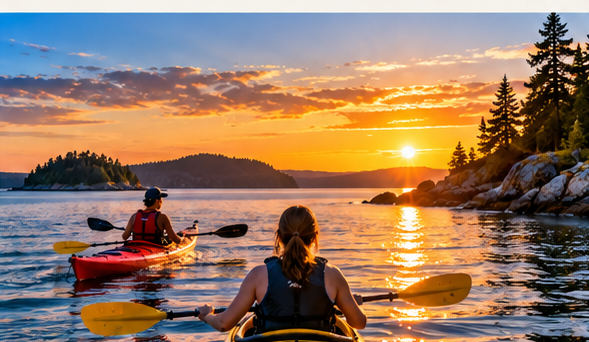
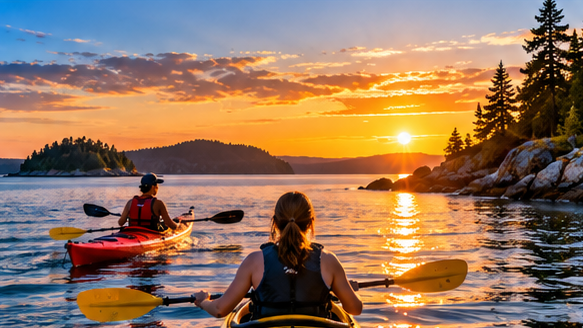
attractions page + image adjustments

diff --git a/website_files/attractions.html b/website_files/attractions.html
@@ -1,0 +1,313 @@
+<!DOCTYPE html>
+<html lang="en">
+<head>
+    <meta charset="UTF-8">
+    <meta name="viewport" content="width=device-width, initial-scale=1.0">
+
+    <title>Moffat Bay Lodge | Attractions</title>
+
+    <link rel="stylesheet" href="/styles.css">
+
+    <style>
+        /* Main page layout */
+        .page-layout {
+            max-width: none;
+            padding: 0 1.5rem 2rem 0;
+            gap: 2rem;
+            grid-template-columns: minmax(0, 1fr) var(--sidebar-w);
+        }
+
+        .page-main {
+            min-width: 0;
+            width: 100%;
+        }
+
+        /* Page heading */
+        .attractions-heading {
+            text-align: center;
+            font-size: clamp(1.8rem, 3vw, 2.5rem);
+            font-weight: normal;
+            line-height: 1.2;
+            margin: 0.5rem 0 0.5rem;
+        }
+
+        .attractions-subtitle {
+            text-align: center;
+            font-size: 1.2rem;
+            font-weight: normal;
+            margin: 0 0 1.5rem;
+            color: var(--ink-soft);
+        }
+
+        /* Attraction card grid */
+        .attractions-grid {
+            display: grid;
+            grid-template-columns: repeat(2, minmax(0, 1fr));
+            gap: 1.5rem;
+            max-width: 850px;
+            margin: 0 auto;
+        }
+
+        /* Individual attraction card */
+        .attraction-card {
+            min-width: 0;
+            background: transparent;
+            border: none;
+            overflow: hidden;
+        }
+
+        /* Attraction picture area */
+        .attraction-picture {
+            position: relative;
+            width: 100%;
+            height: 210px;
+            overflow: hidden;
+            background: transparent;
+            border: none;
+        }
+
+        /* Attraction images */
+        .attraction-picture img {
+            position: absolute;
+            inset: 0;
+            width: 100%;
+            height: 100%;
+            object-fit: cover;
+            object-position: center;
+            display: block;
+            border: none;
+        }
+
+        /* Attraction name at top center */
+        .attraction-name {
+            position: absolute;
+            top: 0;
+            left: 0;
+            right: 0;
+            z-index: 1;
+
+            margin: 0;
+            padding: 0.55rem;
+
+            background: rgba(15, 15, 15, 0.65);
+            color: white;
+
+            font-family: var(--font-sans);
+            font-size: 1rem;
+            font-weight: normal;
+            line-height: 1.2;
+            text-align: center;
+        }
+
+        .attraction-card:hover .attraction-name {
+            background: rgba(15, 15, 15, 0.65);
+        }
+
+        /* Attraction description */
+        .attraction-description {
+            min-height: 65px;
+            display: flex;
+            align-items: center;
+            justify-content: center;
+
+            padding: 0.75rem;
+            margin: 0;
+
+            background: rgba(15, 15, 15, 0.65);
+            color: white;
+
+            font-size: 0.9rem;
+            line-height: 1.4;
+            text-align: center;
+        }
+
+        /* Sidebar */
+        .sidebar {
+            padding-top: 2rem;
+        }
+
+    </style>
+</head>
+
+<body>
+
+<!-- Site header -->
+<header class="site-header">
+
+    <a class="brand" href="/">Moffat Bay Lodge</a>
+
+    <nav class="site-nav" aria-label="Main navigation">
+        <a href="/">Home</a>
+        <a href="/about.html">About Us</a>
+        <a href="/attractions.html" aria-current="page">Attractions</a>
+        <a href="/contact.html">Contact Us</a>
+    </nav>
+
+    {% if session.get("customer_id") %}
+    <a class="auth-link" href="/logout">
+        Welcome, {{ session.get("first_name") }} | Logout
+    </a>
+    {% else %}
+    <a class="auth-link" href="/login">Login / Register</a>
+    {% endif %}
+
+</header>
+
+
+<!-- Main content and sidebar -->
+<div class="page-layout">
+
+    <!-- Attractions content -->
+    <main class="page-main">
+
+        <h1 class="attractions-heading">
+            Moffat Bay Lodge Attractions
+        </h1>
+
+        <h2 class="attractions-subtitle">
+            Explore Joviedsa Island
+        </h2>
+
+
+        <!-- Attraction cards -->
+        <section class="attractions-grid" aria-label="Island attractions">
+
+
+            <!-- Hiking -->
+            <article class="attraction-card">
+
+                <div class="attraction-picture">
+
+                    <img
+                            src="/images/Hiking.png"
+                            alt="Hiking on Joviedsa Island"
+                    >
+
+                    <h3 class="attraction-name">
+                        Hiking
+                    </h3>
+
+                </div>
+
+                <p class="attraction-description">
+                    Explore scenic island trails through forests,
+                    along rocky coastlines, and across peaceful overlooks.
+                </p>
+
+            </article>
+
+
+            <!-- Whale Watching -->
+            <article class="attraction-card">
+
+                <div class="attraction-picture">
+
+                    <img
+                            src="/images/Whale Watching.png"
+                            alt="Whale watching"
+                    >
+
+                    <h3 class="attraction-name">
+                        Whale Watching
+                    </h3>
+
+                </div>
+
+                <p class="attraction-description">
+                    Spot whales and other marine wildlife in the
+                    beautiful waters surrounding Joviedsa Island.
+                </p>
+
+            </article>
+
+
+            <!-- Kayaking -->
+            <article class="attraction-card">
+
+                <div class="attraction-picture">
+
+                    <img
+                            src="/images/Kayaking.png"
+                            alt="Kayaking on the water"
+                    >
+
+                    <h3 class="attraction-name">
+                        Kayaking
+                    </h3>
+
+                </div>
+
+                <p class="attraction-description">
+                    Paddle along the island's peaceful shoreline
+                    and enjoy the surrounding natural scenery.
+                </p>
+
+            </article>
+
+
+            <!-- Scuba Diving -->
+            <article class="attraction-card">
+
+                <div class="attraction-picture">
+
+                    <img
+                            src="/images/Scuba Diving.png"
+                            alt="Scuba diving"
+                    >
+
+                    <h3 class="attraction-name">
+                        Scuba Diving
+                    </h3>
+
+                </div>
+
+                <p class="attraction-description">
+                    Discover the underwater environment and
+                    experience the island from a different perspective.
+                </p>
+
+            </article>
+
+
+        </section>
+
+    </main>
+
+
+    <!-- Right sidebar: only quick-link buttons -->
+    <aside class="sidebar" aria-label="Quick links">
+
+        <a
+                class="side-btn side-btn--primary"
+                href="{{ '/lodge' if session.get('customer_id') else '/login' }}"
+        >
+            <span>Book Your Stay</span>
+        </a>
+
+        <a class="side-btn" href="/reservation-lookup">
+            <span>Reservations</span>
+        </a>
+
+    </aside>
+
+</div>
+
+
+<!-- Site footer -->
+<footer class="site-footer">
+
+    <a class="footer-brand" href="/">
+        Moffat Bay Lodge
+    </a>
+
+    <nav aria-label="Footer navigation">
+        <a href="/about.html">About Us</a>
+        <a href="/attractions.html">Attractions</a>
+        <a href="/contact.html">Contact Us</a>
+        <a href="/reservation-lookup">Reservations</a>
+    </nav>
+
+</footer>
+
+</body>
+</html>

diff --git a/website_files/app.py b/website_files/app.py
@@ -94,6 +94,13 @@ def render_booking(lodge_id, error=None):
         today=date.today().isoformat(), error=error, form=request.form)
 
 
+# ---------------------------------------------------------------- Attractions
+@app.route("/attractions")
+@app.route("/attractions.html")
+def attractions_page():
+    return render_template("attractions.html")
+
+
 @app.route("/lodge-reservation", methods=["GET", "POST"])
 @app.route("/lodge-reservation.html", methods=["GET", "POST"])
 @login_required
